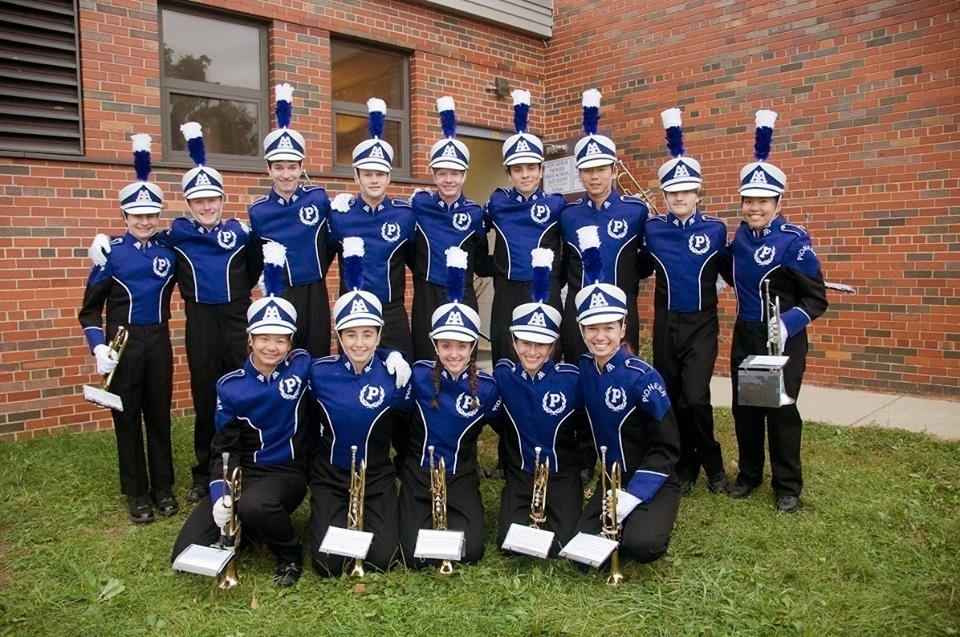
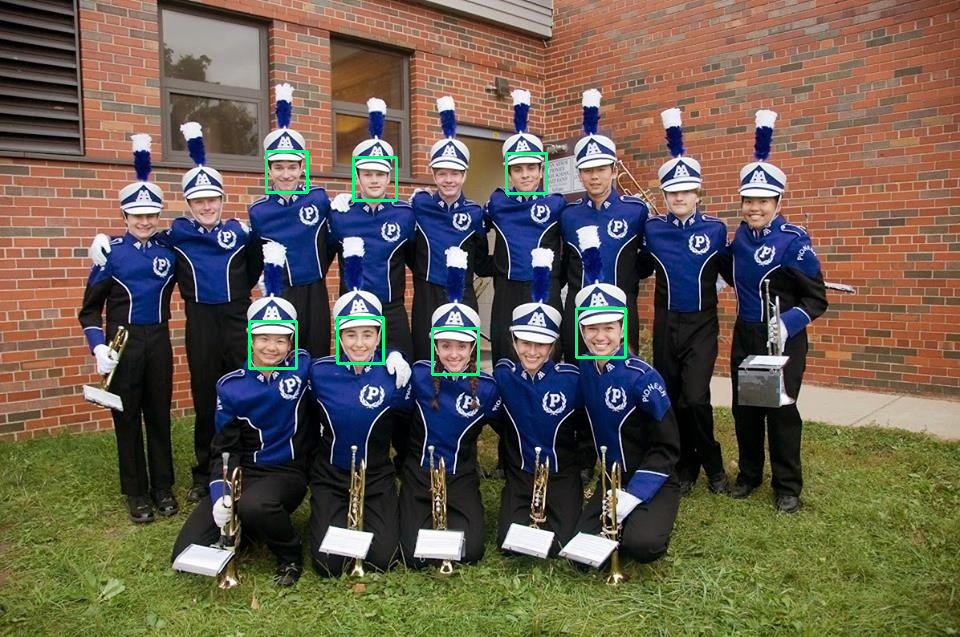
Add Eye Detection
Add eye detection in test.py as well as face detection.

diff --git a/test.py b/test.py
@@ -6,12 +6,14 @@ OpenCV example. Show webcam image and detect face.
  
 import cv2
  
-TRAINSET = "frontalEyes35x16.xml"
+faceXML = "haarcascade_frontalface_alt.xml"
+eyes = "frontalEyes35x16.xml"
 DOWNSCALE = 2
  
 webcam = cv2.VideoCapture(0)
 cv2.namedWindow("preview")
-classifier = cv2.CascadeClassifier(TRAINSET)
+face = cv2.CascadeClassifier(faceXML)
+eye = cv2.CascadeClassifier(eyes)
  
  
 if webcam.isOpened(): # try to get the first frame
@@ -24,8 +26,12 @@ while rval:
     # detect faces and draw bounding boxes
     minisize = (frame.shape[1]/DOWNSCALE,frame.shape[0]/DOWNSCALE)
     miniframe = cv2.resize(frame, minisize)
-    faces = classifier.detectMultiScale(miniframe)
+    faces = face.detectMultiScale(miniframe)
     for f in faces:
+        x, y, w, h = [ v*DOWNSCALE for v in f ]
+        cv2.rectangle(frame, (x,y), (x+w,y+h), (0,0,255))
+    eyes = eye.detectMultiScale(miniframe)
+    for f in eyes:
         x, y, w, h = [ v*DOWNSCALE for v in f ]
         cv2.rectangle(frame, (x,y), (x+w,y+h), (0,0,255))
  
